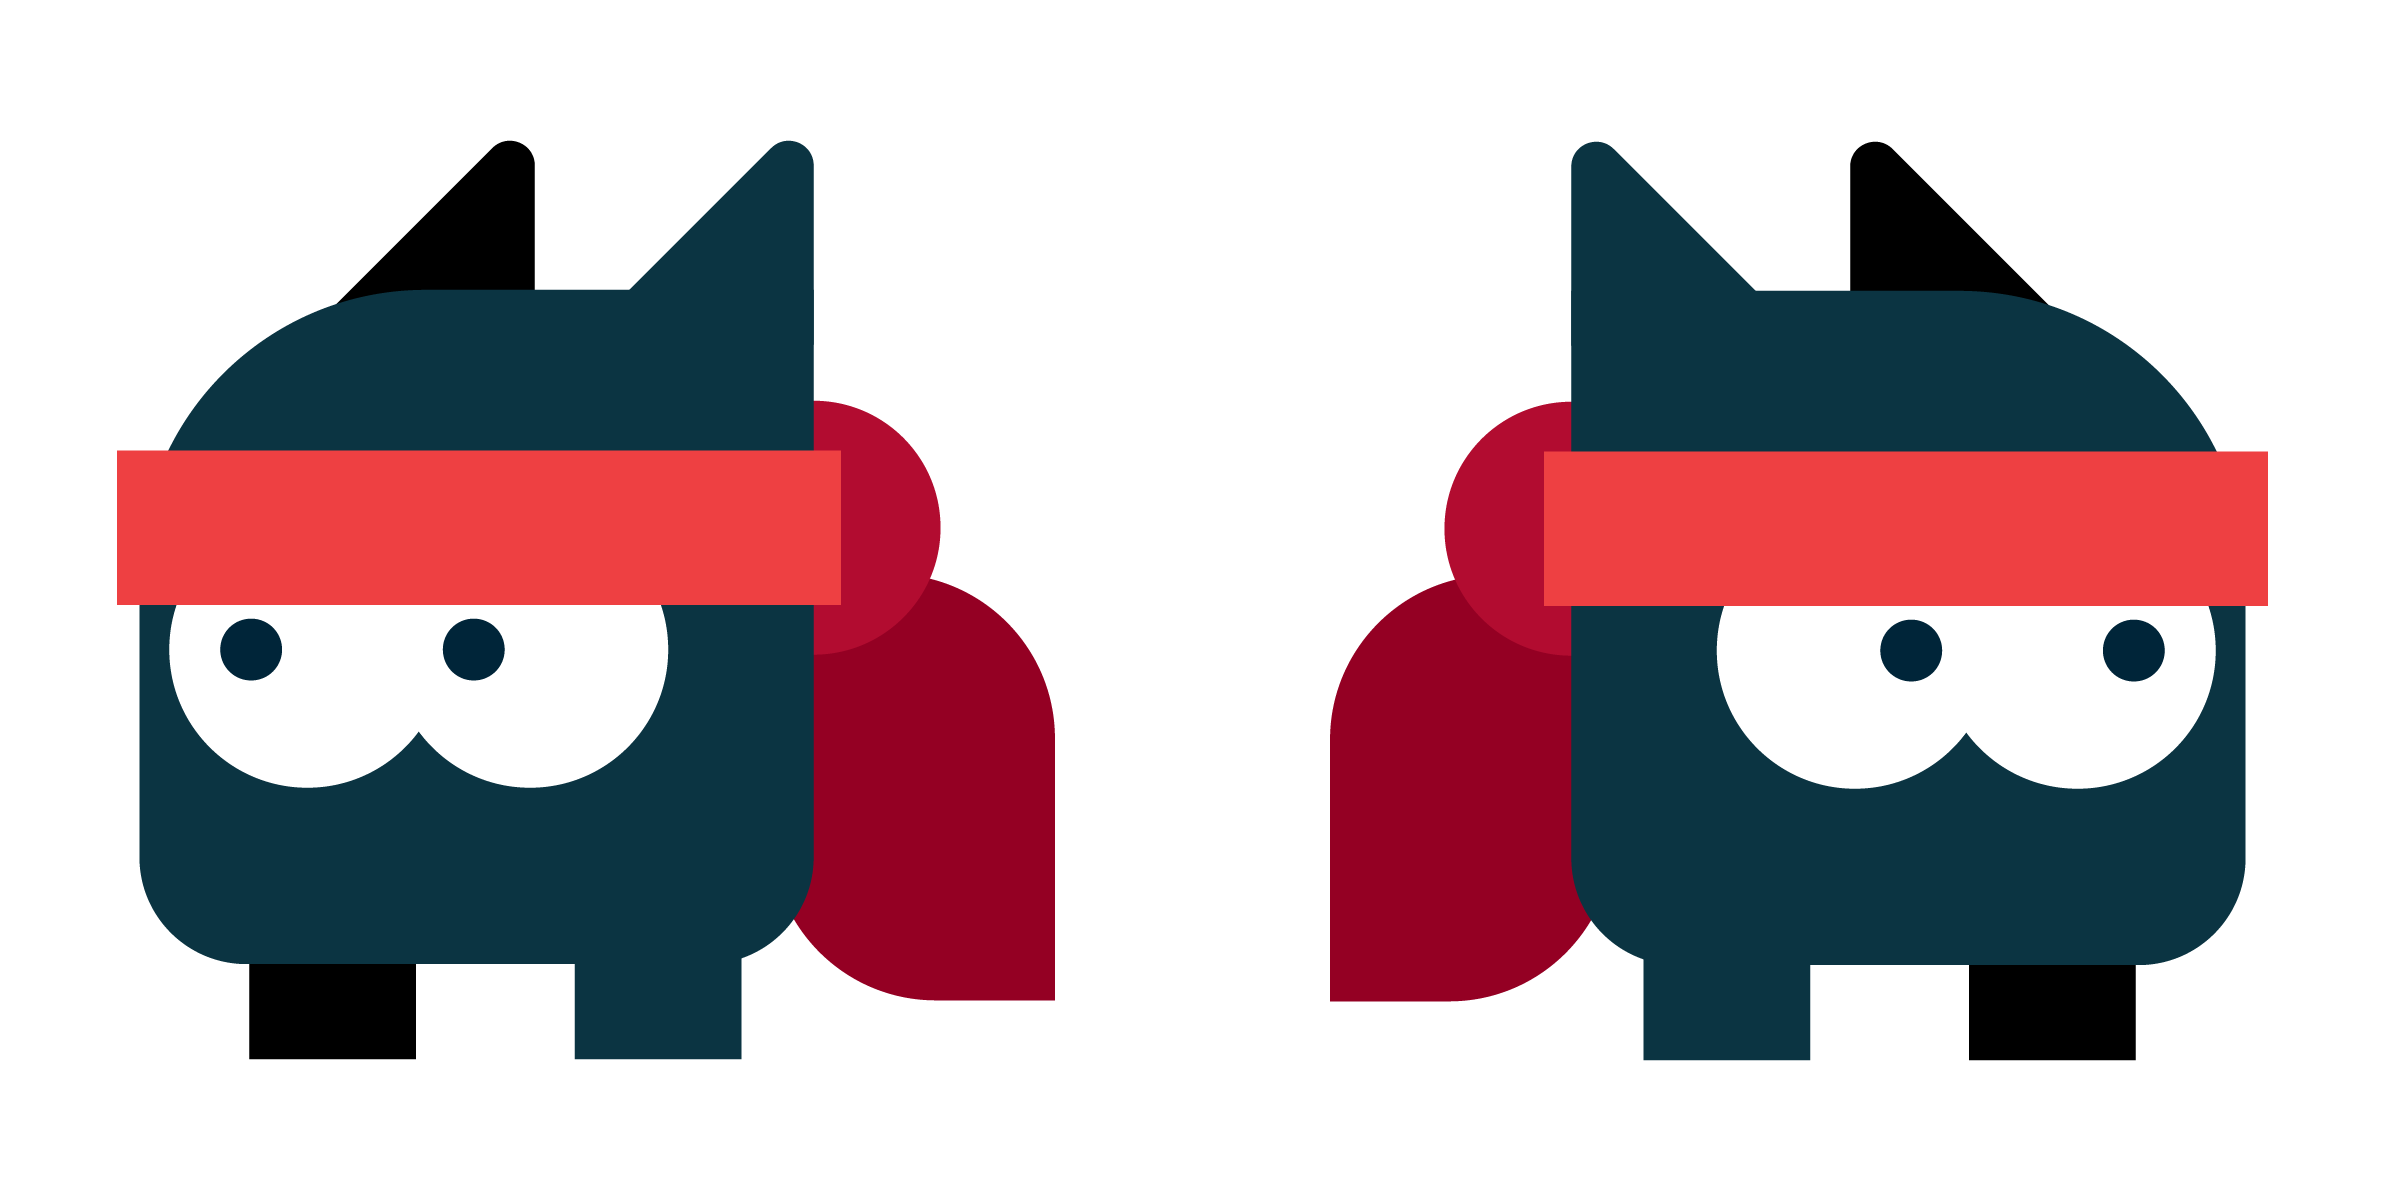
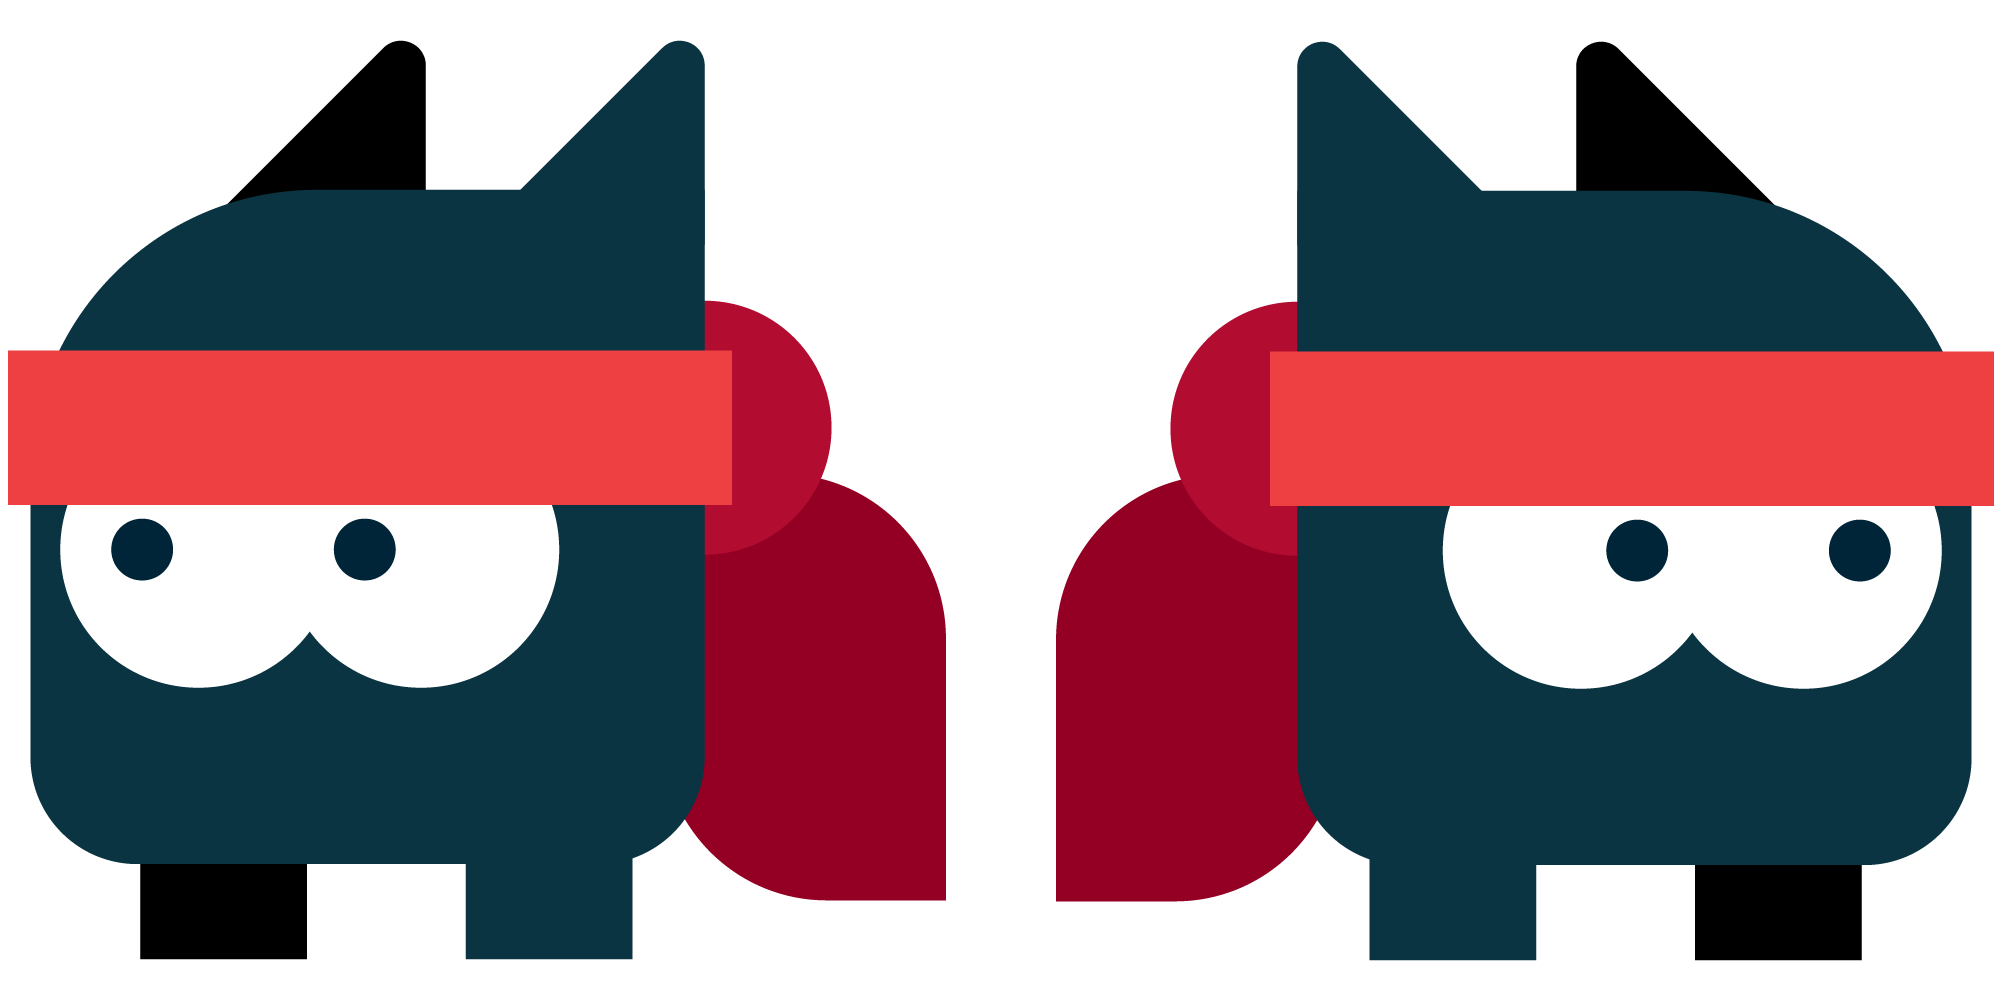
Improve gameplay

diff --git a/core/src/com/mygdx/game/GameScreen.java b/core/src/com/mygdx/game/GameScreen.java
@@ -24,9 +24,10 @@ public class GameScreen implements Screen {
     private final Texture bulletTexture;
     private final Array<Bullet> bullets;
 
-    int numberOfPlatforms = 20;
-    float bulletsInterval = 5;
-    float gravity = -18;
+    private final int numberOfPlatforms = 200;
+    private final int distanceBetweenPlatforms = 230;
+    private final float bulletsCreationInterval = 1;
+    private final float gravity = -18;
 
 
     public GameScreen(final MyGdxGame game) {
@@ -46,7 +47,7 @@ public class GameScreen implements Screen {
         for (int i = 1; i <= numberOfPlatforms; i++) {
             Platform platform = new Platform();
             platform.x = platform.getRandomX();
-            platform.y = i * 200;
+            platform.y = i * distanceBetweenPlatforms;
             platforms.add(platform);
         }
 
@@ -59,7 +60,7 @@ public class GameScreen implements Screen {
             public void run() {
                 spawnBullets();
             }
-        },0,bulletsInterval);
+        },0, bulletsCreationInterval);
     }
 
     @Override
@@ -107,17 +108,16 @@ public class GameScreen implements Screen {
         for(Bullet bullet : bullets) {
             game.batch.draw(bulletTexture, bullet.x, bullet.y, bullet.width, bullet.height);
         }
-
         game.batch.end();
 
         if(Gdx.input.isKeyPressed(Input.Keys.LEFT)) {
             character.x -= 200 * Gdx.graphics.getDeltaTime();
-            character.textureRegion.setRegion(0, 0, 1200, 1200);
+            character.textureRegion.setRegion(0, 0, 1000, 1000);
         }
 
         if(Gdx.input.isKeyPressed(Input.Keys.RIGHT)) {
             character.x += 200 * Gdx.graphics.getDeltaTime();
-            character.textureRegion.setRegion(1200, 0, 1200, 1200);
+            character.textureRegion.setRegion(1000, 0, 1000, 1000);
         }
 
         if(character.x < 0) {
@@ -139,7 +139,7 @@ public class GameScreen implements Screen {
     private void spawnBullets() {
         Bullet bullet = new Bullet();
         bullet.x = bullet.getRandomX();
-        bullet.y = 200 * numberOfPlatforms + 500;
+        bullet.y = camera.position.y + 1000;
         bullets.add(bullet);
     }
 

diff --git a/core/src/com/mygdx/game/GameObjects/MainCharacter.java b/core/src/com/mygdx/game/GameObjects/MainCharacter.java
@@ -16,16 +16,16 @@ public class MainCharacter extends Rectangle {
 
     public MainCharacter() {
         this.texture = new Texture(Gdx.files.internal("character.png"));
-        this.textureRegion = new TextureRegion(texture, 1200, 1200);
-        this.width = 100;
-        this.height = 100;
+        this.textureRegion = new TextureRegion(texture, 1000, 1000);
+        this.width = 80;
+        this.height = 80;
         this.jumpSound = Gdx.audio.newSound(Gdx.files.internal("jump-sound.mp3"));
         this.canJump = true;
     }
 
     public void jump(float deltaTime) {
         if(canJump) {
-            jumpVelocity += 800;
+            jumpVelocity += 740;
             jumpSound.play();
             canJump = false;
         }
